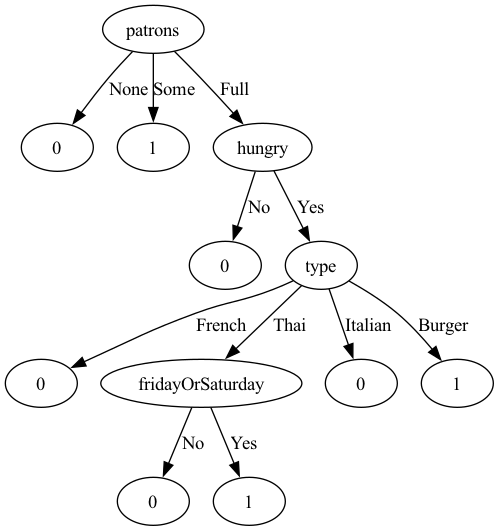
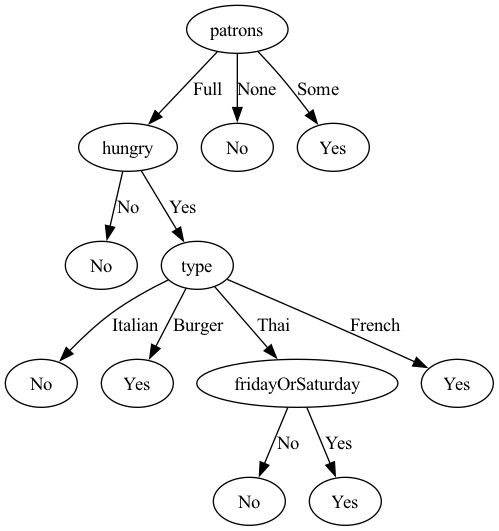
non-binary decision tree hopefully made

diff --git a/dt_utils.py b/dt_utils.py
@@ -4,43 +4,56 @@ from random import randint
 from graphviz import Digraph
 
 
-def select_label(examples, example_goals, labels):
+def boolean_entropy(q):
+    b = 0
+    if q != 0:
+        b += q * log2(q)
+    if (1 - q) != 0:
+        b += (1 - q) * log2(1 - q)
+    return -b
+
+
+def entropy(vP: list):
+    e = 0
+    for p in vP:
+        e += (p * log2(p)) if p != 0 else 0
+    return -e
+
+
+def select_label(examples, example_goals, labels, classifications):
     """
     Returns the attrib index with most importance
     """
-
-    n = sum([1 for x in example_goals if x == 0])
-    p = sum([1 for x in example_goals if x == 1])
-
-    def boolean_entropy(q):
-
-        b = 0
-        if q != 0:
-            b += q * log2(q)
-        if (1 - q) != 0:
-            b += (1 - q) * log2(1 - q)
-        return -b
+    C = len(example_goals)
+    # probability of each classifications occurance in example_goals
+    pC = [
+        sum([1 for x in example_goals if x == c]) / C for c in classifications
+    ]
 
     def remainder(label):
         r = 0
 
         for d in label.values:
-            nk = sum([
-                1 for idx, x in enumerate(examples)
-                if example_goals[idx] == 0 and x[label.id] == d
-            ])
+            # count of examples
+            # whose label has the d'th value of label's values
+            C_a_k = sum([1 for x in examples if x[label.id] == d])
+            if C_a_k == 0:
+                continue
+            # probability of each classification by the d'th value of label
+            pC_a = []
+            for c in classifications:
+                p = sum([
+                    1 for idx, x in enumerate(examples)
+                    if example_goals[idx] == c and x[label.id] == d
+                ]) / C_a_k
+                pC_a.append(p)
 
-            pk = sum([
-                1 for idx, x in enumerate(examples)
-                if example_goals[idx] == 1 and x[label.id] == d
-            ])
+            r += (C_a_k / C) * entropy(pC_a)
 
-            if pk + nk != 0:
-                r += ((pk + nk) / (n + p)) * boolean_entropy(pk / (pk + nk))
         return r
 
     def gain(label):
-        return boolean_entropy(p / (p + n)) - remainder(label)
+        return entropy(pC) - remainder(label)
 
     return max(
         [(label, gain(label)) for label in labels],
@@ -61,17 +74,22 @@ def seperate_examples(examples) -> (list, list):
             for ex in examples], [ex[len(ex) - 1] for ex in examples]
 
 
-def plurality_value(goals):
+def plurality_value(goals, classifications):
     from dt import DecisionLeafNode
-    no = sum([1 for x in goals if x == 0])
-    yes = sum([1 for x in goals if x == 1])
-    if no > yes:
-        return DecisionLeafNode(0)
-    elif yes > no:
-        return DecisionLeafNode(1)
-    else:
-        # break ties
-        return DecisionLeafNode(randint(0, 1))
+    max_class = goals[0]
+    count = 0
+    for classification in classifications:
+        c = sum([1 for x in goals if x == classification])
+        if c > count:
+            count = c
+            max_class = classification
+        elif c == count:
+            # break ties
+            i = randint(0, 1)
+            count = [count, c][i]
+            max_class = [max_class, classification][i]
+
+    return DecisionLeafNode(max_class)
 
 
 def create_decision_tree_graph(node, dot=None):
@@ -79,11 +97,10 @@ def create_decision_tree_graph(node, dot=None):
     if dot is None:
         dot = Digraph(comment='Decision Tree')
 
-    if isinstance(node, type(DecisionLeafNode(0))):
-        print("leaf node drawn")
+    if isinstance(node, DecisionLeafNode):
         dot.node(str(node), label=str(node.value))
     else:
-        dot.node(str(node), label=str(node.label))
+        dot.node(str(node), label=str(node.label.label))
         if node.children is not None:
             for decision, child_node in node.children.items():
                 dot.edge(str(node), str(child_node), label=str(decision))

diff --git a/dt.py b/dt.py
@@ -1,3 +1,4 @@
+import pickle
 from dataclasses import dataclass
 
 import dt_utils
@@ -24,7 +25,7 @@ class DecisionLeafNode:
 
 class DecisionTreeNode:
 
-    def __init__(self, label, children):
+    def __init__(self, label: Label, children):
         self.label = label
         self.children = children
 
@@ -34,9 +35,12 @@ class DecisionTreeLearner:
     def __init__(self, labels: [Label], examples):
         self.labels = labels
         self.examples = examples
+        self.classifications = list(
+            set(dt_utils.seperate_examples(examples)[1]))
+        self.tree = None
 
     def train(self):
-        return self.__train(self.examples, self.examples, self.labels)
+        self.tree = self.__train(self.examples, self.examples, self.labels)
 
     def __train(
         self,
@@ -48,15 +52,17 @@ class DecisionTreeLearner:
 
         if len(examples_to_learn) == 0:
             return dt_utils.plurality_value(
-                dt_utils.seperate_examples(parent_examples_to_learn)[1])
+                dt_utils.seperate_examples(parent_examples_to_learn)[1],
+                self.classifications)
         elif dt_utils.have_same_classification(goals):
-            return dt_utils.plurality_value(goals)
+            return dt_utils.plurality_value(goals, self.classifications)
         elif len(labels_to_match) == 0:
-            return dt_utils.plurality_value(goals)
+            return dt_utils.plurality_value(goals, self.classifications)
 
         selected_label = dt_utils.select_label(examples, goals,
-                                               labels_to_match)
-        node = DecisionTreeNode(selected_label.label, {})
+                                               labels_to_match,
+                                               self.classifications)
+        node = DecisionTreeNode(selected_label, {})
         labels = [
             label for label in labels_to_match if label.id != selected_label.id
         ]
@@ -74,3 +80,51 @@ class DecisionTreeLearner:
             node.children[v] = child_node
 
         return node
+
+    def decide(self, x: list | dict):
+        """
+            x: list of attributes values in matching
+               order of trained examples |
+               dict of attributes values each key
+               corresponding the trained example's label index
+
+            Looks up the decision tree to decide on classification
+
+            returns classification
+        """
+        curr = self.tree
+        while (not isinstance(curr, DecisionLeafNode)):
+            decision = x[curr.label.id]
+            # move among the tree by each label test
+            curr = curr.children[decision]
+
+        return curr.value
+
+    def test(self, examples):
+        pass
+
+    def export_to(self, filename):
+        with open(filename, "w", encoding="utf-8") as f:
+            pickle.dump(self, f)
+
+    def export_image(self, filename, format="png"):
+        if self.tree is None:
+            print("No tree to export")
+            return
+
+        dt_utils.create_decision_tree_graph(self.tree).render(
+            filename,
+            format=format,
+            cleanup=True,
+        )
+        print(f"Successfully exported tree as {format}")
+
+    @staticmethod
+    def import_from(filename):
+        with open(filename, "r", encoding="utf-8") as f:
+            obj = pickle.load(f)
+            if isinstance(obj, DecisionTreeLearner):
+                return obj
+            else:
+                raise Exception(
+                    "given file is not a valid DecisionTreeLearner")

diff --git a/dt_restaurant.py b/dt_restaurant.py
@@ -1,7 +1,6 @@
 import csv
 
 from dt import Label, DecisionTreeLearner
-import dt_utils
 
 data = None
 with open(
@@ -14,8 +13,6 @@ with open(
 
 raw_labels = data[0]
 examples = data[1:]
-for e in examples:
-    e[len(e) - 1] = 1 if e[len(e) - 1] == 'Yes' else 0
 
 labels = []
 for i in range(len(raw_labels) - 1):
@@ -27,9 +24,9 @@ for i in range(len(raw_labels) - 1):
         ))
 
 print("Training...")
-tree = DecisionTreeLearner(labels, examples).train()
+dt_learner = DecisionTreeLearner(labels, examples)
+dt_learner.train()
+
 print("Complete.")
 
-dt_utils.create_decision_tree_graph(tree).render('trained_tree',
-                                                 format="png",
-                                                 cleanup=True)
+dt_learner.export_image("trained_restaurant_tree")
